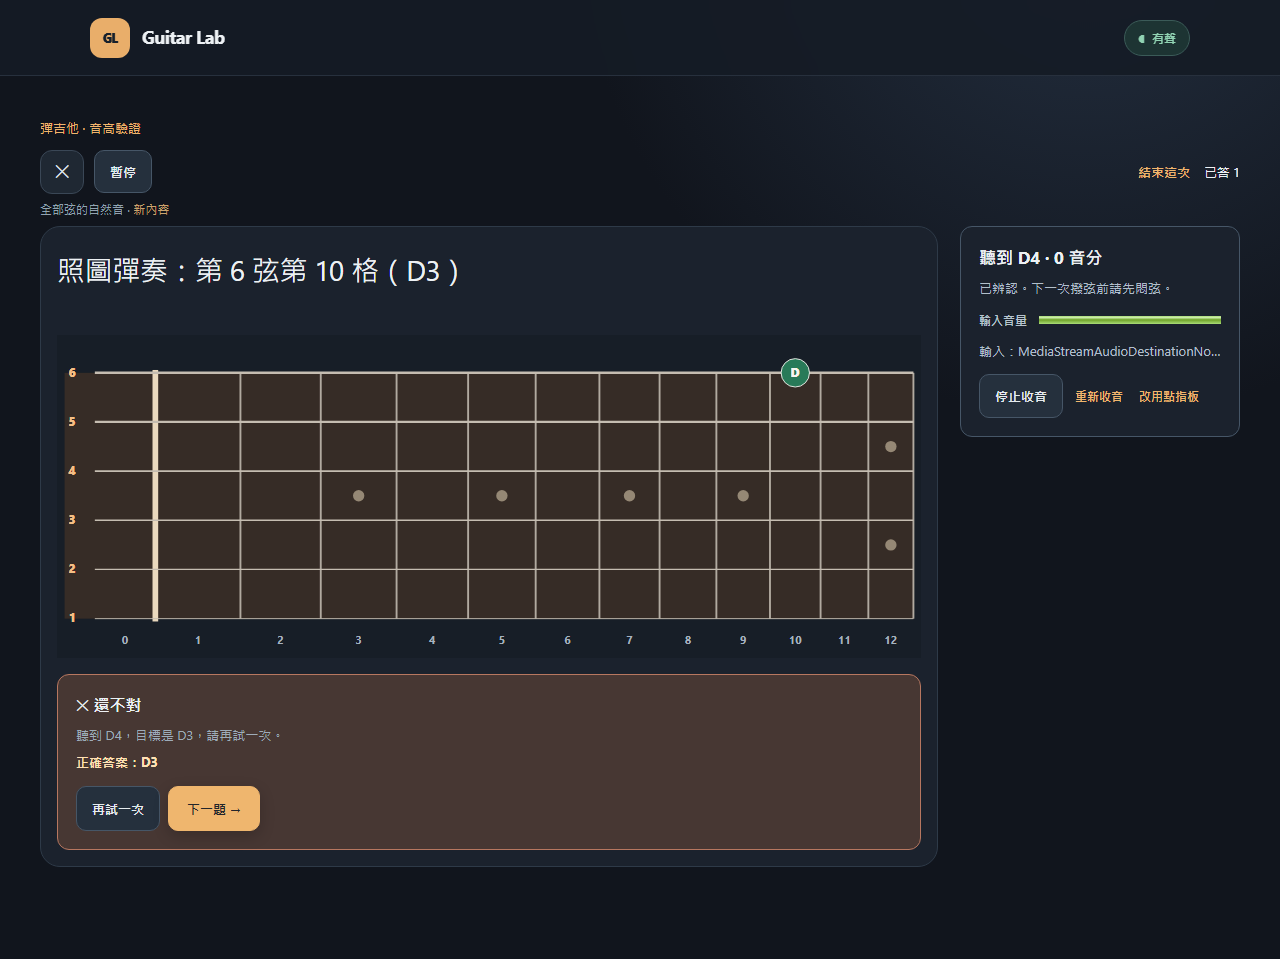
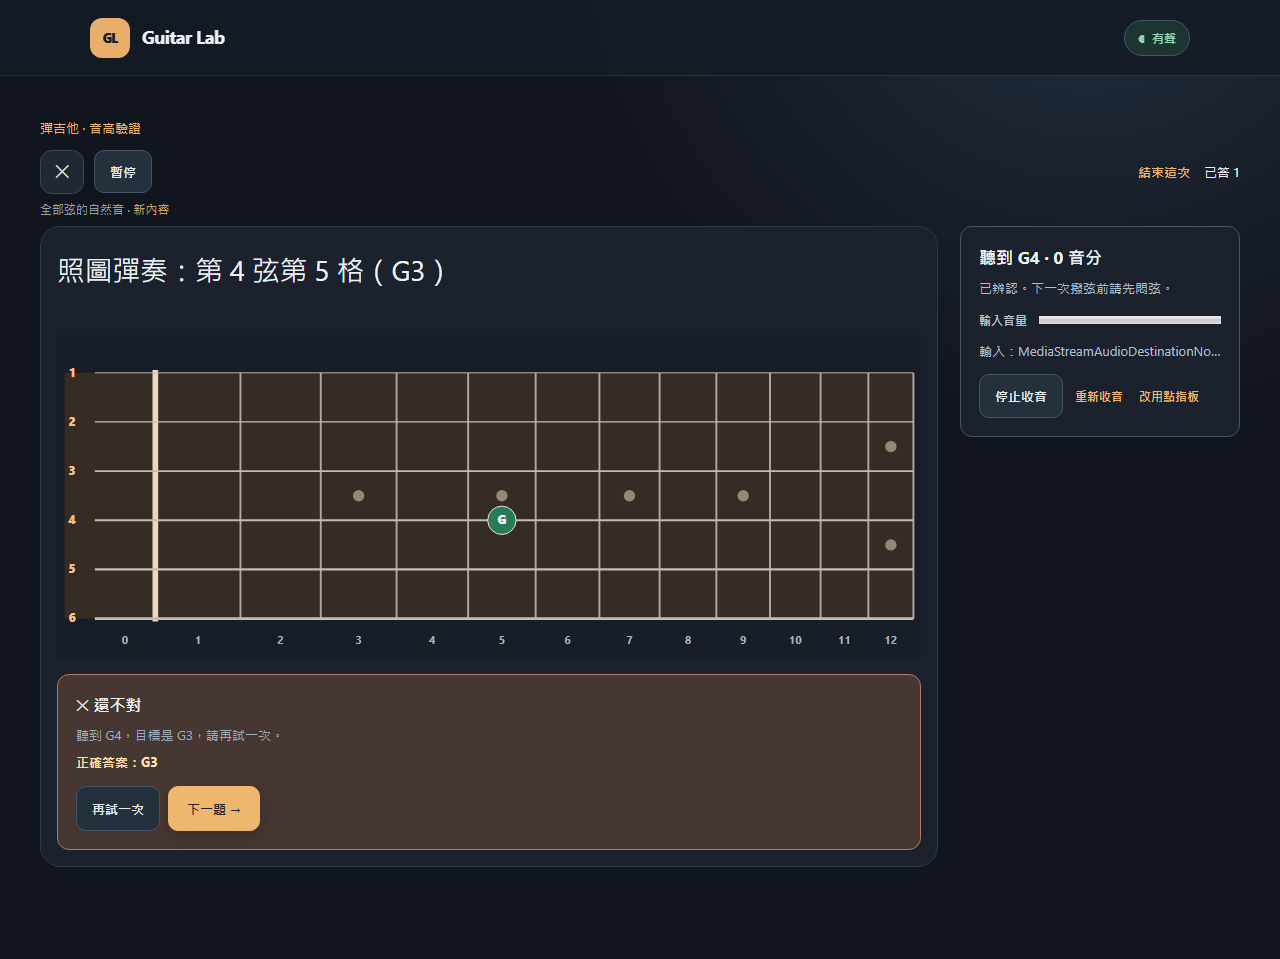
Place the low guitar string below the high strings

diff --git a/src/components/fretboard/Fretboard.tsx b/src/components/fretboard/Fretboard.tsx
@@ -17,9 +17,9 @@ const LABELS: Record<MarkTone, string> = { root: '根音', reference: '參考', 
 export function Fretboard({ tuning, minFret = 0, maxFret = 12, orientation, marks = [], showNoteNames = false, onSelect, disabled, label, leftHanded = false, selectableRange, fitHeight, cellLabel }: FretboardProps) {
   const ref = useRef<SVGSVGElement>(null)
   const gesture = useRef<{ x: number; y: number; moved: boolean } | null>(null)
-  const [focus, setFocus] = useState({ string: 6, fret: minFret })
-  const vertical = orientation === 'vertical'
   const order = stringOrder(orientation, leftHanded)
+  const [focus, setFocus] = useState({ string: order[0], fret: minFret })
+  const vertical = orientation === 'vertical'
   const frets = Array.from({ length: maxFret - minFret + 1 }, (_, i) => i + minFret)
   const margin = 40, step = vertical && fitHeight ? Math.max(12, (fitHeight - margin - 8) / frets.length) : 64, stringStep = 52
   const wires = [margin]
@@ -61,7 +61,7 @@ export function Fretboard({ tuning, minFret = 0, maxFret = 12, orientation, mark
         const x = (a.x + b.x) / 2, y = (a.y + b.y) / 2
         return (f === 12 ? [-stringStep, stringStep] : [0]).map(offset => <circle key={`${f}-${offset}`} cx={x + (vertical ? offset : 0)} cy={y + (vertical ? 0 : offset)} r="6" fill="#d5c6aa" opacity=".6"/>)
       })}
-      {[6, 5, 4, 3, 2, 1].map(string => {
+      {order.map(string => {
         const a = project(string, minFret), b = project(string, maxFret)
         return <g key={string}>
           <line x1={vertical ? a.x : Math.min(edge(0), edge(frets.length))} x2={vertical ? a.x : Math.max(edge(0), edge(frets.length))} y1={vertical ? edge(0) : a.y} y2={vertical ? edge(frets.length) : a.y} stroke="#c5bdb1" strokeWidth={1 + (string - 1) * .35}/>
@@ -69,7 +69,7 @@ export function Fretboard({ tuning, minFret = 0, maxFret = 12, orientation, mark
         </g>
       })}
       {frets.map(f => { const p = project(1, f); return <text key={f} x={vertical ? 16 : p.x} y={vertical ? p.y + 4 : height - 15} textAnchor="middle" className="svg-fret-label">{f}</text> })}
-      {[6, 5, 4, 3, 2, 1].flatMap(string => frets.map(fret => {
+      {order.flatMap(string => frets.map(fret => {
         const cellStep = wires[fret - minFret + 1] - wires[fret - minFret]
         const p = project(string, fret), mark = marksByCell.get(`${string}-${fret}`)
         const name = displayNote(PC_SHARP[(tuning[6 - string] + fret) % 12])

diff --git a/tests/practice.spec.ts b/tests/practice.spec.ts
@@ -18,6 +18,23 @@ async function attempts(page: Page) {
   })
 }
 
+test('horizontal neck puts thin string 1 above thick string 6 without changing B3 or keyboard answers', async ({ page }) => {
+  await page.goto('/lab/fretboard')
+  const board = page.locator('svg.fretboard')
+  const upper = await board.locator('[data-cell="1-4"]').boundingBox()
+  const lower = await board.locator('[data-cell="6-4"]').boundingBox()
+  expect(upper!.y).toBeLessThan(lower!.y)
+  const thicknesses = await board.locator('.svg-string-label').evaluateAll(labels => labels.map(label => Number(label.parentElement!.querySelector('line')!.getAttribute('stroke-width'))))
+  expect(thicknesses[0]).toBeLessThan(thicknesses[5])
+  await board.locator('[data-cell="3-4"]').click()
+  await expect(page.locator('.selected-note strong')).toHaveText('B3')
+  await board.locator('[data-cell="1-1"]').focus()
+  await page.keyboard.press('ArrowDown')
+  await expect(board.locator('.fret-cell:focus')).toHaveAttribute('data-cell', '2-1')
+  await page.keyboard.press('Enter')
+  await expect(page.locator('.selected-note strong')).toHaveText('C4')
+})
+
 test('portrait practice has large targets, no swipe answer, correct keyboard mapping and an explicit end', async ({ browser }, info) => {
   const context = await browser.newContext({ viewport: { width: 320, height: 568 }, isMobile: true, hasTouch: true })
   const page = await context.newPage()
@@ -38,7 +55,7 @@ test('portrait practice has large targets, no swipe answer, correct keyboard map
   await expect(page.locator('.question-card')).toHaveAttribute('inert', '')
   await page.getByRole('button', { name: '繼續練習', exact: true }).click()
   await cell.focus(); await page.keyboard.press('ArrowDown')
-  await expect(page.locator('.fret-cell:focus')).toHaveAttribute('data-cell', /^5-/)
+  await expect(page.locator('.fret-cell:focus')).toHaveAttribute('data-cell', /^2-/)
   await page.keyboard.press('Enter')
   await expect.poll(async () => (await attempts(page)).length).toBe(1)
   await page.getByRole('button', { name: '結束這次', exact: true }).click()

diff --git a/src/components/fretboard/projection.test.ts b/src/components/fretboard/projection.test.ts
@@ -2,12 +2,15 @@ import { describe, expect, it } from 'vitest'
 import { nextPosition, stringOrder, FRET_WINDOWS } from './projection'
 
 describe('fretboard projection', () => {
-  it('player and TAB views name their different string order', () => {
-    expect(stringOrder('playing')).toEqual([6,5,4,3,2,1])
+  it('horizontal views consistently place the thin first string above the thick sixth string', () => {
+    expect(stringOrder('playing')).toEqual([1,2,3,4,5,6])
     expect(stringOrder('horizontal')).toEqual([1,2,3,4,5,6])
+    expect(stringOrder('playing', true)).toEqual([1,2,3,4,5,6])
+    expect(stringOrder('vertical')).toEqual([6,5,4,3,2,1])
   })
   it('keyboard moves in visible directions, including left-handed player view', () => {
-    expect(nextPosition(6, 5, 'ArrowDown', 'playing', false, 0, 12)).toEqual({ string: 5, fret: 5 })
+    expect(nextPosition(1, 5, 'ArrowDown', 'playing', false, 0, 12)).toEqual({ string: 2, fret: 5 })
+    expect(nextPosition(6, 5, 'ArrowUp', 'playing', false, 0, 12)).toEqual({ string: 5, fret: 5 })
     expect(nextPosition(3, 5, 'ArrowLeft', 'playing', true, 0, 12)).toEqual({ string: 3, fret: 6 })
     expect(nextPosition(6, 5, 'ArrowRight', 'vertical', false, 0, 12)).toEqual({ string: 5, fret: 5 })
     expect(nextPosition(6, 5, 'ArrowRight', 'vertical', true, 0, 12)).toEqual({ string: 6, fret: 5 })

diff --git a/tests/learning.spec.ts b/tests/learning.spec.ts
@@ -146,7 +146,7 @@ test('session fretboard preserves proportions and hides open-string hints on a 3
   expect(await page.evaluate(() => document.documentElement.scrollWidth <= window.innerWidth)).toBe(true)
   const box = await cell.locator('rect').first().boundingBox()
   expect(box!.width).toBeGreaterThanOrEqual(40)
-  expect(await page.locator('.shared-fretboard .svg-string-label').allTextContents()).toEqual(['6', '5', '4', '3', '2', '1'])
+  expect(await page.locator('.shared-fretboard .svg-string-label').allTextContents()).toEqual(['1', '2', '3', '4', '5', '6'])
   const board = page.locator('.shared-fretboard svg')
   const ratio = await board.evaluate(element => { const box = element.getBoundingClientRect(); return box.width / box.height })
   await page.setViewportSize({ width: 320, height: 844 })

diff --git a/src/screens/session/QuestionView.tsx b/src/screens/session/QuestionView.tsx
@@ -80,7 +80,7 @@ export function QuestionView({ question, grade, response, onSubmit, layout, inpu
       <h2 className="question-prompt">{question.prompt}</h2>
       <PracticeBoard leftHanded={leftHanded} tuning={question.tuning} minFret={question.minFret} maxFret={question.maxFret}
         marks={marks} onSelect={byEar ? undefined : (string, fret, inputMethod) => { if (!answered) onSubmit({ kind: 'fret-locate', string, fret, inputMethod }) }} disabled={answered || byEar}
-        label={byEar ? '照圖彈奏，App 檢查音高' : '可點選的指板，上方第 6 弦，點一下送出'}/>
+        label={byEar ? '照圖彈奏，App 檢查音高' : '可點選的指板，上方第 1 弦、下方第 6 弦，點一下送出'}/>
 
     </div>
   }

diff --git a/tests/audio.spec.ts b/tests/audio.spec.ts
@@ -4,7 +4,7 @@ import { positionsForNote } from '../src/music/fretboardQuiz'
 test('reference fretboard selects a note without recording a graded attempt', async ({ page }) => {
   await page.goto('/lab/fretboard')
   await expect(page.getByRole('heading', { name: '指板查詢' })).toBeVisible()
-  await expect(page.locator('.svg-string-label')).toHaveText(['6','5','4','3','2','1'])
+  await expect(page.locator('.svg-string-label')).toHaveText(['1','2','3','4','5','6'])
   await expect(page.getByRole('button', { name: /One note|Random review/ })).toHaveCount(0)
   await page.locator('svg.fretboard g[aria-label="String 1, fret 1, F4"]').click()
   await expect(page.locator('.selected-note strong')).toHaveText('F4')

diff --git a/src/components/fretboard/projection.ts b/src/components/fretboard/projection.ts
@@ -2,7 +2,7 @@ export type BoardOrientation = 'vertical' | 'horizontal' | 'playing'
 
 export function stringOrder(orientation: BoardOrientation, leftHanded = false): number[] {
   if (orientation === 'vertical') return leftHanded ? [1, 2, 3, 4, 5, 6] : [6, 5, 4, 3, 2, 1]
-  return orientation === 'playing' ? [6, 5, 4, 3, 2, 1] : [1, 2, 3, 4, 5, 6]
+  return [1, 2, 3, 4, 5, 6]
 }
 
 export function nextPosition(string: number, fret: number, key: string, orientation: BoardOrientation, leftHanded: boolean, min: number, max: number) {

diff --git a/readme.md b/readme.md
@@ -77,7 +77,7 @@ Implementation notes and remaining manual checks: [PRACTICE_IMPLEMENTATION.md](P
   Every exercise has retry, why and next. A wrong answer also schedules an in-session recheck.
 - **Answer types:** fretboard tap, with keyboard arrows and Enter; spelled-note picker; pitch picker; multiple choice; strum/rhythm pad with latency calibration; audio questions (skipped without penalty when sound is off).
 - **Review:** one Leitner scheduler for every review item, with intervals of 1/3/7/14/30 days, a short recheck after misses or hints, and cramming protection. Mastery states run New → Learning → Familiar → Fluent, and Played status is tracked separately.
-- **Fretboard:** a shared SVG fretboard used by lessons, practice, progress and Lab, with player, textbook and TAB projections and coordinate-based left-handed layouts. Main practice uses the player view: string 6 at the top; the nut points left for right-handed players and right for left-handed players. String labels show numbers without open-string note hints. Portrait practice uses large local fret windows plus an optional overview; full-neck exploration remains available. Layouts preserve proportions; swipes do not answer questions. A chord-diagram component is backed by a shape library that the tests check.
+- **Fretboard:** a shared SVG fretboard used by lessons, practice, progress and Lab, with player, textbook and TAB projections and coordinate-based left-handed layouts. Main practice uses the player view: string 1 (thin/high E) at the top and string 6 (thick/low E) at the bottom; the nut points left for right-handed players and right for left-handed players. String labels show numbers without open-string note hints. Portrait practice uses large local fret windows plus an optional overview; full-neck exploration remains available. Layouts preserve proportions; swipes do not answer questions. A chord-diagram component is backed by a shape library that the tests check.
 - **Progress screen:** node states with evidence counts, a 72-cell string × note map, weak items (≥ 3 samples), pathway progress, and session history.
 - **Guitar screen:** direct topic practice, optional single-note microphone checks, a live pitch reference, a count-in plus one-minute chord-change/metronome tool, and queued bridge tasks completed by self-assessment. Self-reports mark a node as "played" but never raise recall mastery.
 - **Storage:**

diff --git a/GUITAR_LAB_SPEC.md b/GUITAR_LAB_SPEC.md
@@ -23,6 +23,10 @@ Primary navigation is now Practice / Courses / Tools / Progress. Pocket and inst
 
 Input and output are independent. Choosing guitar practice uses microphone input for supported tasks. Explicitly starting input can accept the first note without a hidden silence prerequisite; subsequent answers require releasing the previous note. The input meter and observed pitch remain visible regardless of whether grading accepts a note. Low input, denied permission and disconnected audio are distinct states. Quiet-input regression tests do not replace real-device validation.
 
+### Horizontal string order — 2026-11-07 correction
+
+All horizontal practice/reference/progress necks use string 1 (thin high E) at the top and string 6 (thick low E) at the bottom, consistent with TAB. This supersedes the earlier player-view 6-at-top convention. Left-handed layouts mirror the nut/fret direction only; the vertical order stays the same. Textbook vertical diagrams keep string 6 on the left for right-handed players. Musical positions, pitch grading and stored answers are unchanged; keyboard movement follows the new visible order.
+
 ## 0. Mission
 
 Guitar Lab is a mobile-first, local-first web app that makes guitarists **better at playing**, not just better at answering theory quizzes.

diff --git a/PRACTICE_IMPLEMENTATION.md b/PRACTICE_IMPLEMENTATION.md
@@ -94,3 +94,6 @@
 
 
 本次修正驗證：98 項邏輯測試、23 項瀏覽器流程與 1 項正式版離線測試通過。收音用低於舊門檻的衰減訊號及連續輸入測試，確認音量與音名可見、首次不需先靜音；仍需使用者的實際電腦麥克風確認。
+
+
+橫向弦序修正：第 1 細弦在上、第 6 粗弦在下，統一練習、查詢及進度指板。左手琴只改琴枕與品格的左右方向；直式教材圖維持原本讀圖方向。點選、方向鍵及題目座標同步驗證，歷史紀錄與判分不變。
